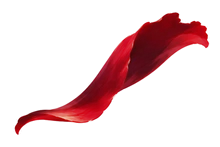
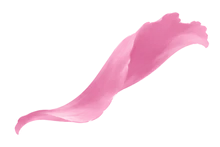
Cherry blossom cliff and pink petals in the hero

Changed region(s): [[0.0545, 0.0816, 0.9545, 0.9252]]

diff --git a/src/components/imeet/Hero.tsx b/src/components/imeet/Hero.tsx
@@ -12,7 +12,7 @@ const PAINTING_FRAME =
 const SCENE_BOX = "animate-scene-in pointer-events-none absolute inset-x-0 top-0 h-[680px] md:h-full";
 const PARALLAX_BOX = "parallax absolute will-change-transform -inset-[4%] [container-type:size] lg:-inset-x-[1%] lg:-inset-y-[1%]";
 
-// hill.webp is 1024x1536; the samurai is positioned in % of this box
+// cherry-cliff.webp is 1024x1536; the samurai is positioned in % of this box
 const HILL_BOX =
   "absolute bottom-0 left-0 aspect-[1024/1536] h-[min(105cqh,135cqw)] md:h-[min(132cqh,135cqw)] lg:h-[min(136cqh,175cqw)]";
 
@@ -59,7 +59,7 @@ export default function Hero() {
       <div className={SCENE_BOX}>
         <div className={PARALLAX_BOX} data-depth="0" data-scroll="0.3">
           <div className={HILL_BOX}>
-            <img src="/imeet/hill.webp" alt="" aria-hidden="true" className="h-full w-full" />
+            <img src="/imeet/cherry-cliff.webp" alt="" aria-hidden="true" className="h-full w-full" />
           </div>
         </div>
       </div>
@@ -75,7 +75,7 @@ export default function Hero() {
 
       <div className={SCENE_BOX}>
         <div
-          className={`${PARALLAX_BOX} [-webkit-mask-composite:xor] [-webkit-mask-image:linear-gradient(#000,#000),url('/imeet/hill.webp')] [-webkit-mask-position:0_0,left_bottom] [-webkit-mask-repeat:no-repeat] [-webkit-mask-size:100%_100%,90%_auto] [mask-composite:exclude] [mask-image:linear-gradient(#000,#000),url('/imeet/hill.webp')] [mask-position:0_0,left_bottom] [mask-repeat:no-repeat] [mask-size:100%_100%,90%_auto] md:[-webkit-mask-size:100%_100%,auto_132%] md:[mask-size:100%_100%,auto_132%] lg:[-webkit-mask-size:100%_100%,auto_136%] lg:[mask-size:100%_100%,auto_136%]`}
+          className={`${PARALLAX_BOX} [-webkit-mask-composite:xor] [-webkit-mask-image:linear-gradient(#000,#000),url('/imeet/cherry-cliff.webp')] [-webkit-mask-position:0_0,left_bottom] [-webkit-mask-repeat:no-repeat] [-webkit-mask-size:100%_100%,90%_auto] [mask-composite:exclude] [mask-image:linear-gradient(#000,#000),url('/imeet/cherry-cliff.webp')] [mask-position:0_0,left_bottom] [mask-repeat:no-repeat] [mask-size:100%_100%,90%_auto] md:[-webkit-mask-size:100%_100%,auto_132%] md:[mask-size:100%_100%,auto_132%] lg:[-webkit-mask-size:100%_100%,auto_136%] lg:[mask-size:100%_100%,auto_136%]`}
           data-depth="10"
           data-scroll="0.3"
         >
